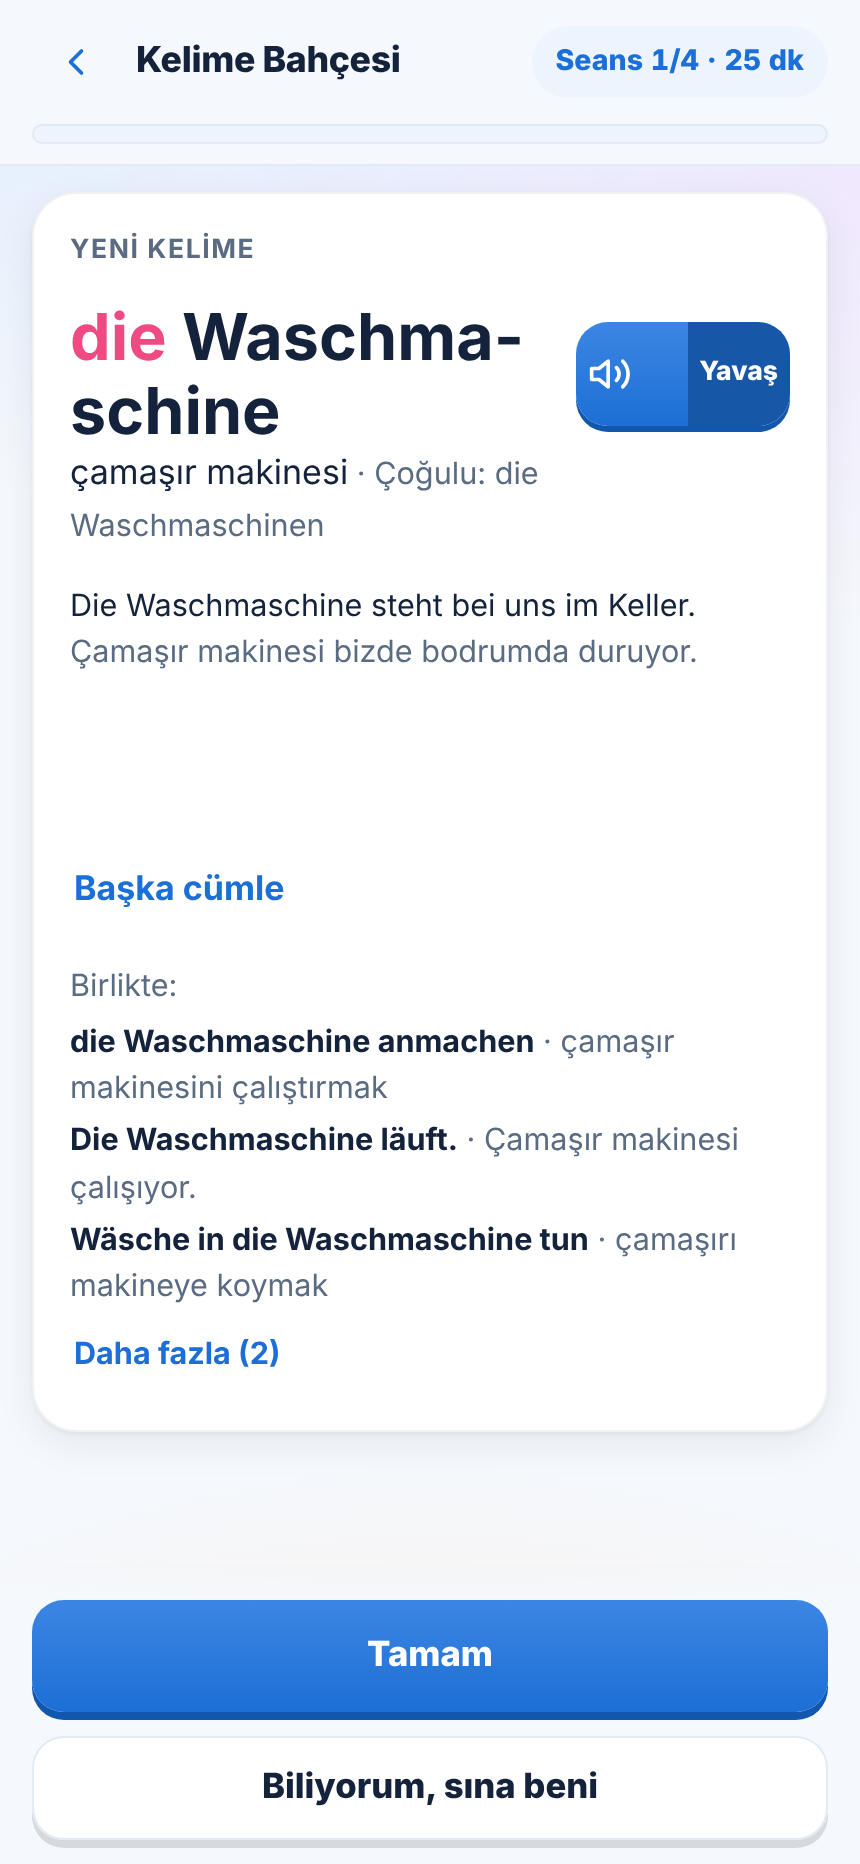
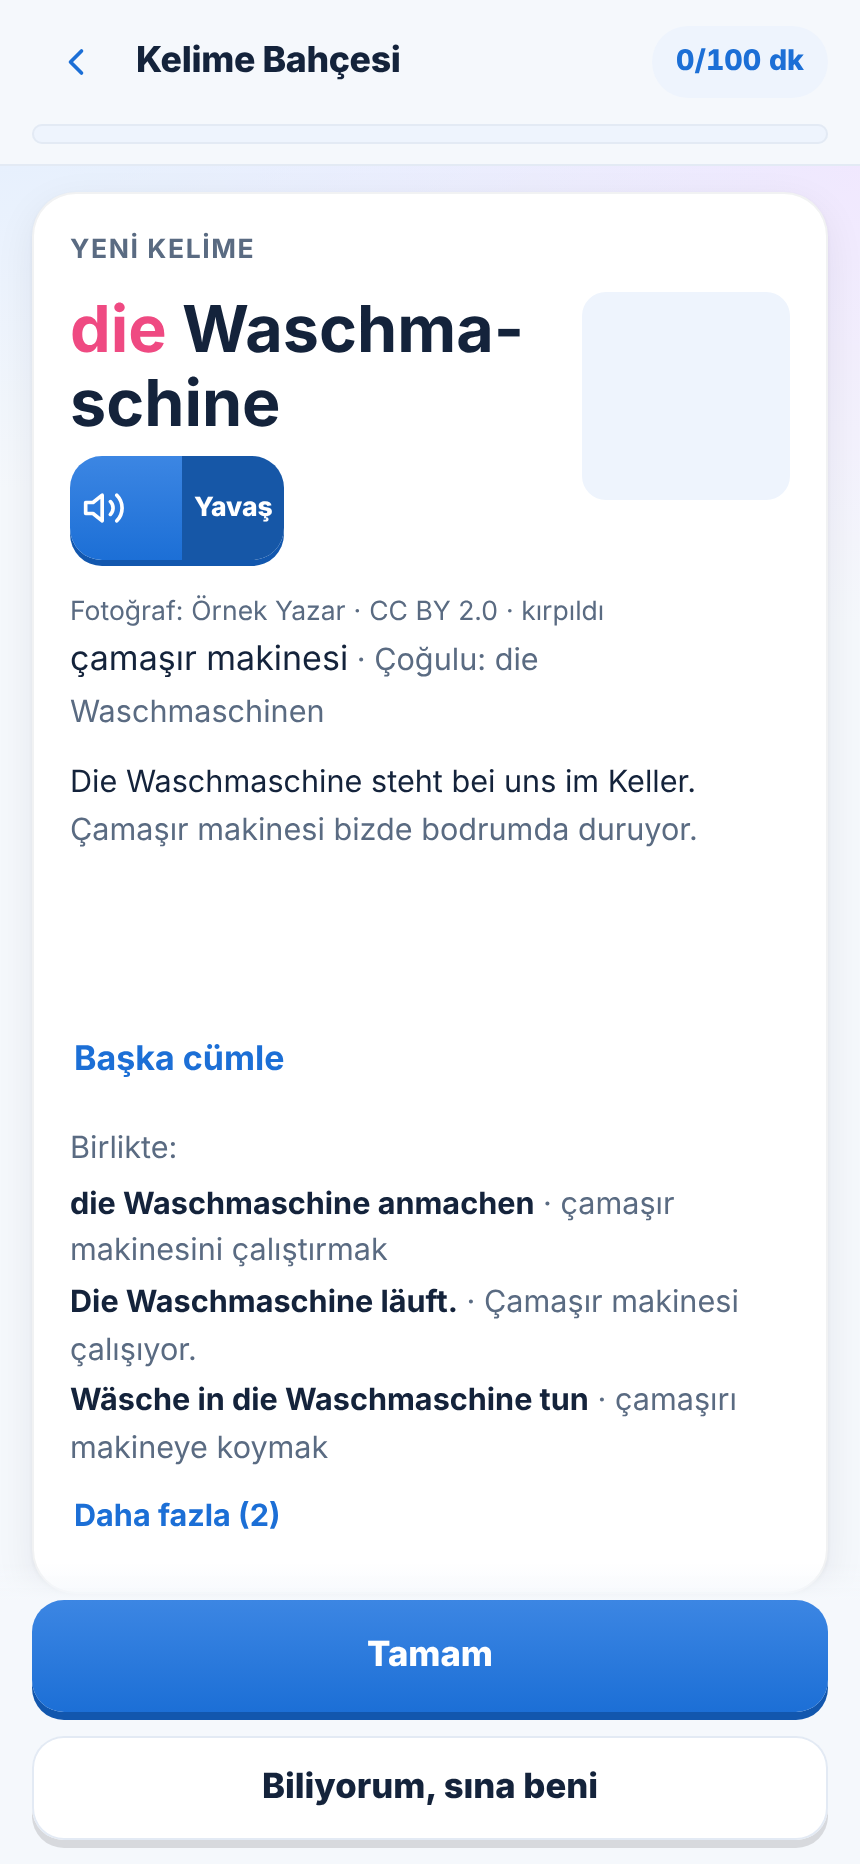
D-123 yeniden: görsel gizlenmez; sığmayan kartta kelime + Dinle solda, görsel sağda kare, atıf altta tek satır; karar kart oturunca (Daha fazla etkilemez); test 80 aday, pay 8 px, görselsiz kart yok (#12 7035903811, inceleme #152)
Claude-Session: https://claude.ai/code/session_016gishG3oMjbKiLi4Fij94B

diff --git a/web/src/screens/Garden.tsx b/web/src/screens/Garden.tsx
@@ -220,8 +220,8 @@ function GardenTur({ day, again }: { day?: number; again: () => void }) {
   );
 }
 
-/** Tanıtım kartında görsel: en çok / sığmazsa en az (altında gösterilmez) */
-const FOTO_TANITIM = 160, FOTO_EN_AZ = 96;
+/** Tanıtım kartında görsel: tam genişlikte en çok 160 px; sığmayan kartta kelimenin altında sağda 104 px kare; düğmeye en az 8 px pay */
+const FOTO_TANITIM = 160, FOTO_KARE = 104, FOTO_PAY = 8;
 
 /** Eşdizimler: en çok 3 açık, kalanı "Daha fazla (n)" (PM 7024150313); açılır kısım boşlukta sorulmaz */
 function Esdizimler({ l, test }: { l: Lexeme; test?: string }) {
@@ -269,45 +269,61 @@ function Question({ q, l, all, yakin, gorulen, onDone: bitir, onSina, onCevap, o
 
   // önce duy (PM-049 tanıtım): kelime ekrana gelince bir kez okunur (inceleme #59 P2-8)
   useEffect(() => { if (intro) void speak(isNoun(l) ? `${l.art} ${l.de}` : l.de, "de", "normal"); }, [intro]);
-  // PM 7024150313 + #12 7033396085/7033585915: tanıtım kartı düğmelere değmeden sığar. Tek esneyen parça görsel: kart düğmeye
-  // değiyorsa görsel 160 px'ten FOTO_EN_AZ'a kadar küçülür, yine sığmıyorsa bu kartta gösterilmez (kelime, örnek ve 3 eşdizim
-  // aynen kalır; boşluk kuralı açık eşdizimleri "gösterilmiş" saydığı için eşdizim sayısına dokunulmaz, D-119). Yalnızca küçülür.
+  // PM 7024150313 + #12 7035903811 (D-123): tanıtım kartı görselli en uzun kartta da düğmelere değmeden sığar. Görsel GİZLENMEZ
+  // (LS §1 ikili kodlama). Sığmayan kartta düzen bir kez değişir: görsel tam genişlik yerine kelimenin altında sağa yaslı küçük kare
+  // olur, metin yanından akar. Karar kart oturunca (2 kare sonra) verilir; "Daha fazla" ya da sonradan gelen düğme kararı
+  // değiştirmez. Pencere boyu/yön ya da yazı boyu değişince karar yeniden verilir. Eşdizim sayısı sabit (D-119).
   const kartRef = useRef<HTMLElement>(null);
-  const [fotoH, setFotoH] = useState(FOTO_TANITIM);
+  const [duzen, setDuzen] = useState<"tam" | "kare">("tam");
+  const [olcuTur, setOlcuTur] = useState(0);
+  useEffect(() => {
+    if (!intro) return;
+    const yeniden = () => { setDuzen("tam"); setOlcuTur((n) => n + 1); };
+    window.addEventListener("resize", yeniden);
+    const ts = typeof MutationObserver !== "undefined" ? new MutationObserver(yeniden) : null;
+    ts?.observe(document.documentElement, { attributes: true, attributeFilter: ["style"] });
+    return () => { window.removeEventListener("resize", yeniden); ts?.disconnect(); };
+  }, [intro]);
   useEffect(() => {
     const k = kartRef.current;
-    if (!intro || !k) return;
-    const olc = () => {
-      const btn = [...document.querySelectorAll<HTMLElement>(".actionbar button")];
-      if (!btn.length) return;
-      const ust = Math.min(...btn.map((x) => x.getBoundingClientRect().top));
-      const tas = Math.ceil(k.getBoundingClientRect().bottom + window.scrollY - ust);
-      if (tas <= 0) return;
-      const img = k.querySelector<HTMLElement>("[data-test=foto] img");
-      if (!img) return;
-      const h = img.getBoundingClientRect().height;
-      setFotoH((cur) => { if (!cur) return 0; const y = Math.floor(Math.min(cur, h || cur) - tas); return y >= FOTO_EN_AZ ? y : 0; });
-    };
-    // ölçüm bir sonraki karede: gözlemci içinden düzen değiştirmek WebKit'te "ResizeObserver loop" hatası verir (#152 CI)
+    if (!intro || !k || duzen !== "tam") return;
+    // görsel ve örnek alanı geç oturabilir: kart boyu değiştikçe (kare kararı verilene kadar) bir sonraki karede ölçülür;
+    // gözlemci içinden düzen değiştirmek WebKit'te "ResizeObserver loop" hatası verir (#152 CI)
     let kare = 0;
+    const olc = () => {
+      // yalnızca bu tanıtımın eylem çubuğu; görünmeyen (0 boyutlu) düğmeler sayılmaz
+      const btn = [...(k.closest("[data-test=garden-intro]")?.querySelectorAll<HTMLElement>(".actionbar button") ?? [])].map((x) => x.getBoundingClientRect()).filter((r) => r.height > 0);
+      if (!btn.length) return;
+      const ust = Math.min(...btn.map((r) => r.top));
+      // "Daha fazla" açıksa onun yüksekliği karara girmez
+      const daha = k.querySelector<HTMLDetailsElement>("[data-test=esdizim-daha]");
+      const ek = daha?.open ? (daha.getBoundingClientRect().height - (daha.querySelector("summary")?.getBoundingClientRect().height ?? 0)) : 0;
+      const tas = Math.ceil(k.getBoundingClientRect().bottom - ek + window.scrollY - ust + FOTO_PAY);
+      if (tas > 0 && k.querySelector("[data-test=foto]")) setDuzen("kare");
+    };
     const sonra = () => { cancelAnimationFrame(kare); kare = requestAnimationFrame(olc); };
     const ro = typeof ResizeObserver !== "undefined" ? new ResizeObserver(sonra) : null;
     ro?.observe(k); sonra();
     return () => { ro?.disconnect(); cancelAnimationFrame(kare); };
-  }, [intro]);
+  }, [intro, duzen, olcuTur]);
   const col = collocOf(l);
   if (intro) return (
     <div class="stack fade" data-test="garden-intro" data-lex={l.id}>
-      <section class="card stack" ref={kartRef} data-foto-h={fotoH}><div class="kicker">Yeni kelime</div>
+      <section class="card stack" ref={kartRef} data-duzen={duzen}><div class="kicker">Yeni kelime</div>
         {/* PM 14:05 Berlin madde 1: tanıtımda kelimenin fotoğrafı (sayaçla döner); cümle görseli yalnızca cümlenin yanında */}
         {/* C: tanıtımda görsel 160 px (örnek alanı en uzun örnek kadar yer tuttuğu için en uzun kart yine düğmelere değmeden sığar) */}
-        {fotoH > 0 && <Photo q={l.img} sira={q.ex} yer={[`${l.id}#kart`]} alt={l.tr} enCok={fotoH} />}
+        {duzen === "tam" && <Photo q={l.img} sira={q.ex} yer={[`${l.id}#kart`]} alt={l.tr} enCok={FOTO_TANITIM} />}
         {/* PM 7024150313: görselli en uzun kart da düğmelere değmeden sığar — kelime ile dinle aynı satırda, çoğul anlamın yanında,
             "Başka cümle" cümlenin yanında; eşdizimlerden en çok 3'ü açık */}
-        <div class="row" style={{ flexWrap: "nowrap", alignItems: "center", gap: 10 }}>
+        {duzen === "tam" ? <div class="row" style={{ flexWrap: "nowrap", alignItems: "center", gap: 10 }}>
           <div class="de-xl grow" lang="de" style={{ minWidth: 0 }}><Art art={l.art} de={l.de} /></div>
           <ListenButton text={isNoun(l) ? `${l.art} ${l.de}` : l.de} />
         </div>
+          // D-123 kare düzeni: kelime ve Dinle solda alt alta, görsel sağda kare; örnek cümle yine tam genişlikte (PM 7026866757-1)
+          : <div class="kelime-kare" data-test="kelime-kare">
+            <div class="kk-sol"><div class="de-xl" lang="de"><Art art={l.art} de={l.de} /></div><ListenButton text={isNoun(l) ? `${l.art} ${l.de}` : l.de} /></div>
+            <Photo q={l.img} sira={q.ex} yer={[`${l.id}#kart`]} alt={l.tr} enCok={FOTO_KARE} oran="1 / 1" />
+          </div>}
         <p style={{ margin: 0 }}><span data-test="intro-tr">{l.tr}</span>{gosterilenCogul(l) && <span class="small muted cogul-satir" data-test="intro-pl"> · Çoğulu: <span lang="de">{isNoun(l) ? "die " : ""}{gosterilenCogul(l)}</span></span>}</p>
         {/* PM 7026866757-1: örnek cümle tam genişlikte, hecelenmez; "Başka cümle" Türkçe satırın altında, kendi satırında */}
         {/* PM 7030294523 C: örnek alanı kartın en uzun örneği kadar yer tutar (görünmez yer tutucular aynı hücrede); "Başka cümle"de kart da

diff --git a/web/src/ui/learn.tsx b/web/src/ui/learn.tsx
@@ -152,7 +152,7 @@ const lastShown = new Map<string, number>();
  * `sira` verilirse fotoğraf listedeki sırayla seçilir (PM-062: kartın gösterim sayacı; uygulama yeniden açılınca da döner).
  * Verilmezse oturum içinde bir önce gösterilenden farklısı.
  */
-export function Photo({ q, sira, yer, alt = "", enCok = 200 }: { q?: string; sira?: number; /** B12 3. parça: seçilmiş fotoğrafın yeri ("lx:Kelime#kart", "lx:Kelime#ornekN") */ yer?: string[]; /** Türkçe alt metin (kelimenin anlamı) */ alt?: string; /** en çok yükseklik (px) */ enCok?: number }) {
+export function Photo({ q, sira, yer, alt = "", enCok = 200, oran = "3 / 2" }: { q?: string; sira?: number; /** B12 3. parça: seçilmiş fotoğrafın yeri ("lx:Kelime#kart", "lx:Kelime#ornekN") */ yer?: string[]; /** Türkçe alt metin (kelimenin anlamı) */ alt?: string; /** en çok yükseklik (px) */ enCok?: number; /** en-boy oranı (tanıtımda sığmayan kartta kare, D-123) */ oran?: string }) {
   const { api } = useApp();
   const [p, setP] = useState<PhotoResult | null>(null);
   // seçilmiş fotoğrafın atfı (CC BY/BY-SA: yazar + kaynak sayfa + lisans bağlantısı; inceleme #121 P1-1)
@@ -181,7 +181,7 @@ export function Photo({ q, sira, yer, alt = "", enCok = 200 }: { q?: string; sir
   if (!p) return null;
   // yüklenemezse (çevrimdışı, kaldırılmış dosya) alan tümden kalkar; yer ayrılır, düzen kaymaz (inceleme #121 P1-3)
   return <figure style={{ margin: 0 }} data-test="foto" data-kaynak={atif ? "secim" : "arama"}>
-    <img src={p.src} alt={alt || p.alt} onError={() => setP(null)} style={{ width: "100%", aspectRatio: "3 / 2", maxHeight: enCok, objectFit: "cover", borderRadius: 12, background: "var(--soft)" }} loading="lazy" />
+    <img src={p.src} alt={alt || p.alt} onError={() => setP(null)} style={{ width: "100%", aspectRatio: oran, maxHeight: enCok, objectFit: "cover", borderRadius: 12, background: "var(--soft)" }} loading="lazy" />
     {atif
       ? <figcaption class="tiny muted foto-atif" data-test="foto-atif">Fotoğraf: {atif.sayfa && /^https:\/\//.test(atif.sayfa) ? <a class="foto-yazar" href={atif.sayfa} target="_blank" rel="noopener noreferrer">{atif.yazar || "kaynak"}</a> : <span class="foto-yazar">{atif.yazar}</span>} · {atif.lisans_url && /^https:\/\//.test(atif.lisans_url) ? <a class="foto-lisans" href={atif.lisans_url} target="_blank" rel="noopener noreferrer">{atif.lisans}</a> : <span class="foto-lisans">{atif.lisans}</span>} · kırpıldı</figcaption>
       : <figcaption class="tiny muted">Foto: {p.credit} · Pexels</figcaption>}

diff --git a/web/src/styles.css b/web/src/styles.css
@@ -700,3 +700,13 @@ html:has(.actionbar) .toast { bottom: auto; top: calc(var(--safe-top) + 12px); }
 .ornek-cumle [lang="de"] { hyphens: manual; -webkit-hyphens: manual; overflow-wrap: normal; }
 /* "Daha fazla" açılınca son satır eylem çubuğunun üstünde tam görünür (PM 7026866757-3) */
 .esdizim-daha li { scroll-margin-bottom: calc(var(--actionbar-h) + var(--safe-bottom) + 16px); }
+
+/* D-123: sığmayan tanıtım kartında kelime + Dinle solda, görsel sağda kare (ayrı satır tutmaz); atıf sarılır (kesilmez: CC BY) */
+.kelime-kare { display: grid; grid-template-columns: minmax(0, 1fr) 104px; gap: 12px; align-items: start; }
+.kelime-kare .kk-sol > * + * { margin-top: 8px; }
+/* görsel sağ sütunda; atıf satırı ızgaranın altında tam genişlikte tek satır (figure kutusu açılır) */
+.kelime-kare figure { display: contents; }
+.kelime-kare figure img { grid-column: 2; grid-row: 1; }
+.kelime-kare figcaption { grid-column: 1 / -1; grid-row: 2; margin-top: -4px; }
+/* kare düzende kart içi aralık biraz sıkı (yalnızca sığmayan uzun kartlar) */
+section.card[data-duzen="kare"].stack > * + * { margin-top: 10px; }

diff --git a/tests/e2e/v2_tanitim_sigar.py b/tests/e2e/v2_tanitim_sigar.py
@@ -1,7 +1,7 @@
 """
 PM 7024150313: Bahçe tanıtım kartı en uzun kartta da (en çok eşdizim, en uzun örnek cümle, görselli) 430×932'de düğmelere
 değmeden sığar; kartta en çok 3 eşdizim açık, kalanı "Daha fazla (n)" ile açılır. Tahminen en uzun 40 kart gerçek görsel düzeniyle
-(seçilmiş fotoğraf + atıf) ölçülür; tek esneyen parça görsel (160 → en az 96 px, gerekirse yok; #12 7033585915).
+(seçilmiş fotoğraf + atıf) ölçülür; görsel gizlenmez, sığmayan kartta kelimenin yanında kare (D-123, #12 7035903811).
 python3 tests/e2e/v2_tanitim_sigar.py [--browser webkit] [--device "iPhone 15"] [--shots DIR]
 """
 import base64, json, math
@@ -9,7 +9,8 @@ from playwright.sync_api import sync_playwright
 from common import serve, launch, new_page, login_onboard, check, finish, shot, arg, content_file
 
 PORT = 4216
-ADAY = 40  # tahminen en uzun kartlar; her biri görselli ölçülür (inceleme #136 P2-4)
+ADAY = 80  # tahminen en uzun kartlar; her biri görselli ölçülür (inceleme #136 P2-4, #152 P2-5)
+PAY = 8    # kart altı ile düğme üstü arasında en az (eylem çubuğunun saydam geçişi; inceleme #152 P2-6)
[1 lines of base64/hex data omitted]
 
 
@@ -21,9 +22,11 @@ def tahmin(l):
     """kabaca kart yüksekliği: kelime (büyük yazı, ~13 harf/satır), anlam + çoğul, en uzun örnek, ilk 3 eşdizim (~40 harf/satır)"""
     kelime = satir(len((l.get("art") or "") + " " + l["de"]), 13)
     anlam = satir(len(l.get("tr", "")) + len(l.get("pl") or "") + 12, 40)
+    # örnek alanı en uzun örnek kadar yer tutar (#136 C): bütün örneklerin en uzunu
     ornek = max(satir(len(e["de"]), 40) + satir(len(e.get("tr", "")), 40) for e in l["examples"])
+    cogul = satir(len(l.get("pl") or ""), 30) if l.get("pl") else 0
     esd = sum(satir(len(c["de"]) + len(c.get("tr", "")) + 3, 40) for c in (l.get("collocations") or [])[:3])
-    return 62 * kelime + 24 * (anlam + ornek + esd) + (40 if len(l.get("collocations") or []) > 3 else 0)
+    return 62 * kelime + 24 * (anlam + ornek + esd + cogul) + (40 if len(l.get("collocations") or []) > 3 else 0) + (44 if len(l["examples"]) > 1 else 0)
 
 
 def adaylar():
@@ -43,17 +46,18 @@ def ac(pg, base, lid):
     pg.wait_for_selector("[data-test=garden-intro], [data-test=garden-done], [data-test=garden-empty], [data-test=hizli-oneri]", timeout=15000)
     if not pg.locator("[data-test=garden-intro]").count():
         raise AssertionError(f"{lid}: tanıtım yerine başka ekran ({pg.inner_text('main')[:120]!r})")
-    # görsel çizilip kart oturana kadar (ResizeObserver küçültmesi dahil)
+    # görsel çizilip kart oturana kadar (düzen kararı dahil)
     pg.wait_for_function("""() => { const k = document.querySelector('[data-test=garden-intro] section.card'); if (!k) return false;
-      const f = k.querySelector('[data-test=foto] img'); return k.dataset.fotoH === '0' || (f && f.complete); }""", timeout=8000)
-    pg.wait_for_timeout(250); pg.evaluate("window.scrollTo(0, 0)")
+      const f = k.querySelector('[data-test=foto] img'); return !!(f && f.complete); }""", timeout=8000)
+    pg.wait_for_timeout(300); pg.evaluate("window.scrollTo(0, 0)")
 
 
 def olc(pg):
     return pg.evaluate("""() => { const k = document.querySelector('[data-test=garden-intro] section.card');
-      const ust = Math.min(...[...document.querySelectorAll('.actionbar button')].map((b) => b.getBoundingClientRect().top));
-      return { alt: Math.round(k.getBoundingClientRect().bottom + scrollY), ust: Math.round(ust), foto: +k.dataset.fotoH,
-        img: Math.round(k.querySelector('[data-test=foto] img')?.getBoundingClientRect().height || 0) }; }""")
+      const ust = Math.min(...[...document.querySelectorAll('[data-test=garden-intro] .actionbar button')].map((b) => b.getBoundingClientRect()).filter((r) => r.height > 0).map((r) => r.top));
+      const img = k.querySelector('[data-test=foto] img');
+      return { alt: Math.round(k.getBoundingClientRect().bottom + scrollY), ust: Math.round(ust), duzen: k.dataset.duzen,
+        img: Math.round(img?.getBoundingClientRect().height || 0), atif: !!k.querySelector('[data-test=foto-atif]') }; }""")
 
 
 def main():
@@ -62,24 +66,34 @@ def main():
     aday = adaylar(); l = en_uzun()
     # her adaya seçilmiş açık fotoğraf (gerçek düzen: görsel + atıf); görsel isteği sahte JPEG
     kayit = {f"{x['id']}#kart": {"src": f"https://foto.example/{i}.jpg", "sinif": "acik", "yazar": "Örnek Yazar", "lisans": "CC BY 2.0",
-             "lisans_url": "https://creativecommons.org/licenses/by/2.0", "sayfa": "https://commons.wikimedia.org/wiki/File:X.jpg"} for i, x in enumerate(aday)}
+             "lisans_url": "https://creativecommons.org/licenses/by/2.0", "sayfa": "https://commons.wikimedia.org/wiki/File:X.jpg"} for i, x in enumerate(aday + [{"id": "lx:Montag"}])}
     with sync_playwright() as p:
         # PM ölçütü 430×932 (kabukta tam ekran); cihaz öykünmesinin Safari çubuklu görünümü değil
         b, ctx = launch(p, viewport={"width": 430, "height": 932}); pg = new_page(ctx)
         pg.route("**/foto.json", lambda r: r.fulfill(status=200, content_type="application/json", body=json.dumps({"surum": 1, "foto": kayit})))
         pg.route("https://foto.example/**", lambda r: r.fulfill(status=200, content_type="image/jpeg", body=JPEG))
         login_onboard(pg, PORT); pg.wait_for_selector("[data-tab=today]")
-        # 1) en uzun 40 aday: hepsi düğmelere değmeden sığar; görsel yalnızca gerektiği kadar küçülür (96 px altına inmez; inmesi gerekirse yok)
+        # 1) en uzun 80 aday: hepsi düğmelere en az PAY px kala sığar; görsel HİÇ gizlenmez (LS §1); sığmayan kartta kare düzen
         sonuc = []
         for x in aday:
             ac(pg, base, x["id"]); r = olc(pg); sonuc.append((x["id"], r))
-        tasan = [(i, r["alt"] - r["ust"]) for i, r in sonuc if r["alt"] > r["ust"]]
-        check(not tasan, f"en uzun {len(aday)} aday kart düğmelere değmeden sığıyor (taşan: {tasan[:5]})")
-        kucuk = [(i, r["foto"]) for i, r in sonuc if 0 < r["foto"] < 160]; yok = [i for i, r in sonuc if r["foto"] == 0]
-        check(all(r["foto"] == 0 or r["foto"] >= 96 for _, r in sonuc), "görsel 96 px altına inmiyor (inmesi gerekirse gösterilmiyor)")
-        check(all(r["img"] <= max(r["foto"], 1) + 1 for _, r in sonuc), "görsel yüksekliği ayarlanan sınırı aşmıyor")
-        print("  · boşluk (düğme üstü − kart altı):", sorted([(i, r["ust"] - r["alt"], r["foto"]) for i, r in sonuc if 0 < r["foto"] < 160], key=lambda t: -t[1])[:8])
-        print(f"  · görsel tam: {len(aday) - len(kucuk) - len(yok)}, küçüldü: {len(kucuk)} {kucuk[:6]}, gösterilmedi: {len(yok)} {yok[:6]}")
+        tasan = [(i, r["alt"] + PAY - r["ust"]) for i, r in sonuc if r["alt"] + PAY > r["ust"]]
+        check(not tasan, f"en uzun {len(aday)} aday kart düğmelere en az {PAY} px kala sığıyor (taşan: {tasan[:6]})")
+        gorselsiz = [i for i, r in sonuc if not r["img"] or not r["atif"]]
+        check(not gorselsiz, f"görsel ve atıf hiçbir kartta gizlenmiyor (görselsiz: {gorselsiz[:6]})")
+        kare = [i for i, r in sonuc if r["duzen"] == "kare"]
+        check(all(r["img"] <= (104 if r["duzen"] == "kare" else 160) + 1 for _, r in sonuc), "görsel boyu düzenin sınırında (tam 160, kare 104)")
+        print(f"  · düzen: tam {len(aday) - len(kare)}, kare {len(kare)} {kare[:8]}")
+        # kısa kart tam düzende 160 px kalır; "Daha fazla" aç/kapat düzeni değiştirmez (inceleme #152 P1-2)
+        ac(pg, base, "lx:Montag"); r = olc(pg)
+        check(r["duzen"] == "tam" and r["img"] >= 150, f"kısa kart tam düzende, görsel 160 px ({r})")
+        uzun_daha = next((i for i, _ in sonuc if len(next(x for x in aday if x["id"] == i).get("collocations") or []) > 3), None)
+        if uzun_daha:
+            ac(pg, base, uzun_daha); once = olc(pg)
+            pg.click("[data-test=esdizim-daha] > summary"); pg.wait_for_timeout(700)
+            pg.click("[data-test=esdizim-daha] > summary"); pg.wait_for_timeout(500)
+            sonra = olc(pg)
+            check(once["duzen"] == sonra["duzen"] and abs(once["img"] - sonra["img"]) <= 1, f"'Daha fazla' aç/kapat düzeni ve görseli değiştirmiyor ({uzun_daha}: {once['duzen']}/{once['img']} → {sonra['duzen']}/{sonra['img']})")
         # 2) eşdizim kuralı ve ayrıntı ölçütleri en çok eşdizimli aday üzerinde
         ac(pg, base, l["id"])
         n_acik = pg.locator("[data-test=intro-colloc] > ul.esdizim-liste > li").count()
@@ -88,7 +102,7 @@ def main():
         if n_top > 3:
             check(pg.inner_text("[data-test=esdizim-daha] > summary").strip() == f"Daha fazla ({n_top - 3})", "kalanı 'Daha fazla (n)'")
         r = olc(pg)
-        check(r["alt"] <= r["ust"], f"tanıtım kartı düğmelere değmeden sığıyor (kart altı {r['alt']} px ≤ düğme üstü {r['ust']} px; görsel {r['foto']} px, {l['id']})")
+        check(r["alt"] + PAY <= r["ust"], f"tanıtım kartı düğmelere değmeden sığıyor (kart altı {r['alt']} px + {PAY} ≤ düğme üstü {r['ust']} px; düzen {r['duzen']}, {l['id']})")
         if shots: shot(pg, "t01-en-uzun-kart", full=False)
         # PM 7026866757: (1) örnek cümle tam genişlikte, hecelenmez; (2) "Başka cümle" ve "Daha fazla" aynı üslup;
         # (3) "Daha fazla" açılınca son satır görünür ve birincil düğmeyle kesişmez
